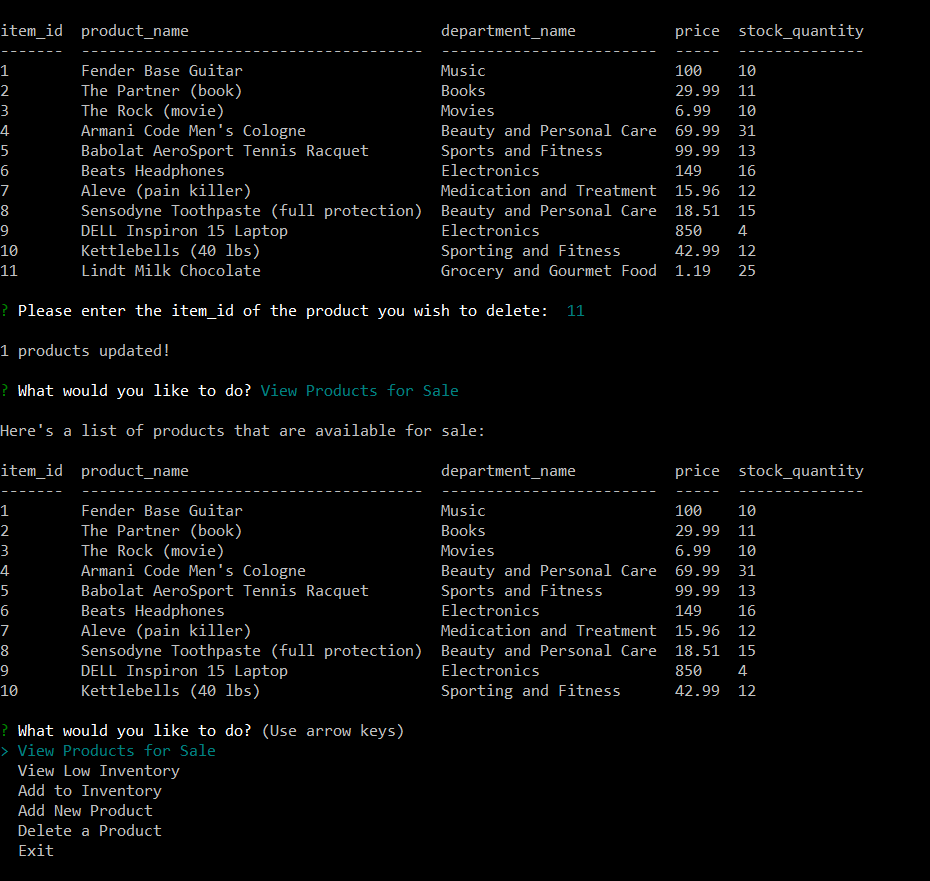
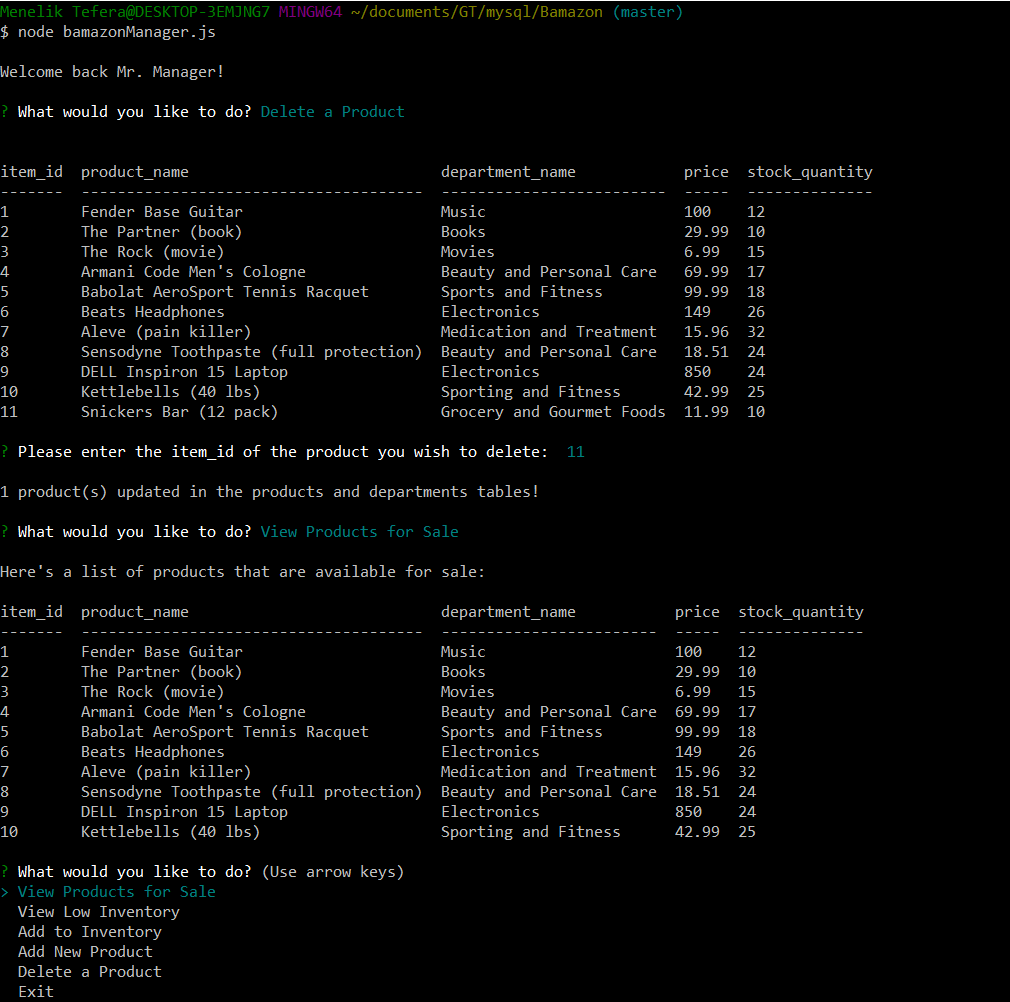
updated the add product and delete product features so that both the products and departments tables are updated

Changed region(s): [[0.0, 0.0, 0.9355, 1.0], [0.8108, 0.521, 0.9355, 0.5516], [0.343, 0.0919, 0.4054, 0.1226]]

diff --git a/README.md b/README.md
@@ -2,7 +2,7 @@ A `CLI` commerce app that is cool and easy to use.  `mySQL and Node.js` were the
 
 Our database has two tables:
 1. `products` will be used to display available items to the customer, as well as products for sale to the Manager.
-2. `departments` will be used to display products for sale to the Supervisor. 
+2. `departments` will be used to display products sales to the Supervisor. 
 
 
 ## Bamazon Customer
@@ -108,7 +108,14 @@ If the Supervisor choses to view the product sales, the app joins the entire `de
 
 ![Image of Departments Database View](https://menelik7.github.io/Bamazon/images/departmentsDatabase.PNG "Departments Database View")
 ![Image of Products Database View](https://menelik7.github.io/Bamazon/images/productsDatabase.PNG "Products Database View")
-![Image of Supervisor Product Sales View](https://menelik7.github.io/Bamazon/images/SupervisorView2.PNG "Supervisor Product Sales View")
+
+###### Products for Sale view after Manager added a new product
+
+![Image of Supervisor Product Sales View](https://menelik7.github.io/Bamazon/images/SupervisorView2.PNG "Supervisor Product Sales View after Addition of new product")
+
+###### Products for Sale view once the Manager has deleted the new product
+
+![Image of Supervisor Product Sales View](https://menelik7.github.io/Bamazon/images/SupervisorView3.PNG "Supervisor Product Sales View after Deletion of new product")
 
 
 ## Copyright
